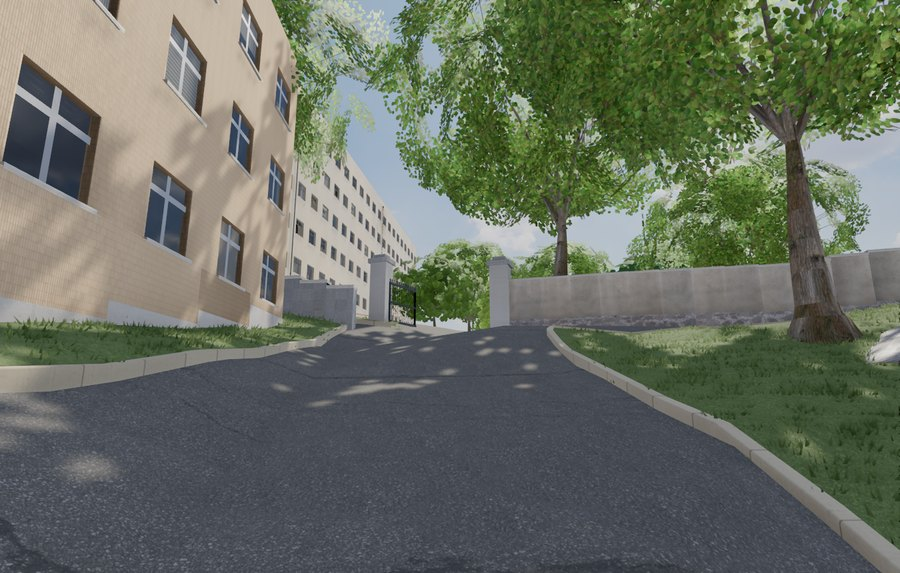
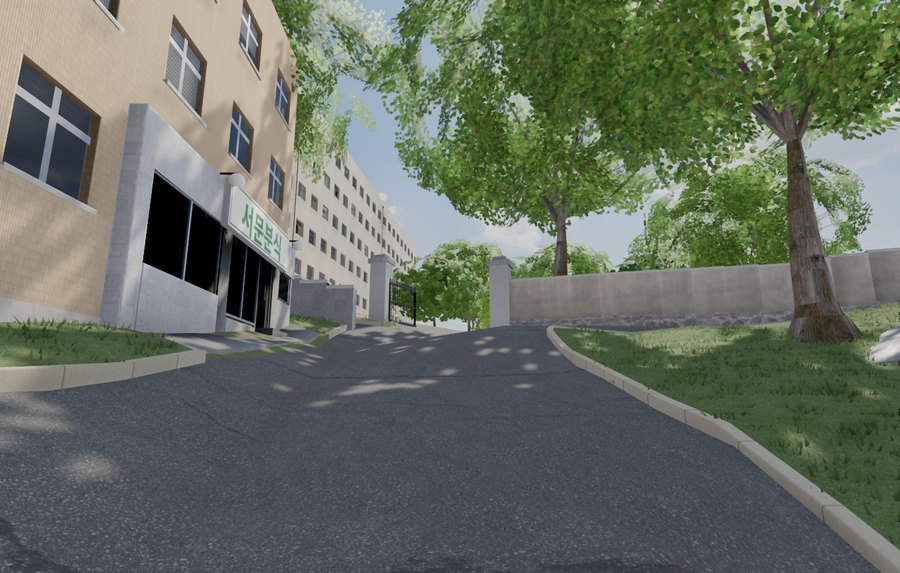
고증 3.22 「서문 앞 가게」: 서문분식을 83번지 1층에 넣은 것과 그 근거
자리 · 간판 색은 동문의 기억(2026-11-21), 앞면은 2011년 로드뷰의 그 자리
가게(다미분식) 꼴. 「남은 한계」는 간판 · 앞면의 1997년 모습이 어림이라는
것으로 고침. 비교 화면 seomun_bunsik 을 새로 찍고 seomun 을 다시 찍음.

Changed region(s): [[0.3111, 0.0, 1.0, 0.4747], [0.0933, 0.178, 0.3733, 0.6527]]

diff --git a/reference/고증/3.22_서문.md b/reference/고증/3.22_서문.md
@@ -4,7 +4,7 @@
 
 과학관 서쪽 길이 남서쪽 모퉁이에서 내려와 서문 안 갈림목을 지나 대운동장 북동쪽으로 이어지는 찻길, 서문, 문 밖 연희로10길 한 토막과 그 둘레의 연희동 집.
 코드는 `tools/seomun.py`, `campus.json` `seomun`, `blender/landmarks.py` `seomun`.
-비교: `docs/screenshots/seomun.jpg`(연희로10길에서 동쪽으로, 2011년 4월 로드뷰 1017248897과 비슷한 자리).
+비교: `docs/screenshots/seomun.jpg`(연희로10길에서 동쪽으로, 2011년 4월 로드뷰 1017248897과 비슷한 자리), `docs/screenshots/seomun_bunsik.jpg`(서문분식, 「서문 앞 가게」).
 
 전의 게임:
 
@@ -174,6 +174,9 @@
 
 서문 앞에 「서문분식」이 있었다는 기억(2026-11-21)으로 그 자리 · 간판 · 건물을 찾았습니다.
 
+- 자리 · 간판 색: 동문(사용자)의 기억, 2026-11-21. 83번지 1층(문 바로 곁, 골목 북쪽 4층 건물), 흰 바탕에 초록 글씨
+- 그 밖의 자료는 아래 표. 1997년의 사진은 찾지 못함
+
 | 자료 | 읽은 것 |
 |---|---|
 | 네이버 블로그 회고(2025년 3월) | 학부 때 다니다 없어진 식당의 예로 「서문 쪽에 서문분식, 정문 앞의 부산 식당」. 같은 글에 2003 ~ 2004년 이야기. 자리 · 모습 · 연도는 없음 |
@@ -187,14 +190,19 @@
   - 남쪽 문 곁(86번지): 「연세반점 중국요리」, 낮은 벽돌집 앞면 가득 빨간 바탕 흰 글씨 간판
   - 그 서쪽(82번지 1층): 「味(미)加(가)분식」, 주황 바탕 흰 글씨 간판(방패 무늬에 「2000」), 흰 칠 벽돌 벽 · 아치 문, 2층은 유리를 두른 방
   - 북쪽(83번지 1층): 「다미분식」(노랑 바탕 초록 글씨) · 「맘마맘」
+    - 다미분식의 앞면(1017248898): 밝은 화강석 기둥 · 띠, 바닥에서 띠까지 유리 두 칸(동쪽 칸에 유리문, 간판은 그 위), 동쪽 화강석 벽에 쇠살 작은 창, 골목이 서쪽으로 내려가 서쪽 칸은 화강석 턱 위. 차양은 없음
 - 미가분식: 2000년에 연 가게. 서문분식이 이름을 바꾼 것인지는 모름(회고의 때에 둘이 따로 있었다면 다른 가게)
 - 찾아도 없던 곳
   - 네이버 블로그 · 카페 · 지식iN · 뉴스, 다음 검색
   - 연세춘추 온라인(1999년부터), 네이버 뉴스 라이브러리(1920 ~ 1999년)
   - 나무위키 연희동 「서문 식당」, 카카오맵 장소 검색
   - 재상봉 문집 2019 · 2021 ~ 2026년의 글자
-- 게임: 넣지 않음. 서문분식이 있었다는 것(2000년대 초 회고)만 확인하고, 1997년의 자리 · 간판 · 건물은 찾지 못함
-  - 자리 후보: 2010년에도 분식집이던 문 앞 두 곳, 82번지 1층(2000년부터 미가분식, 그 전은 모름) · 83번지 1층(다미분식)
+- 게임(`tools/seomun.py` `SHOP`, `blender/landmarks.py` `seomun_shop`, 간판 `tools/make_textures.py` `sign_seomun`)
+  - 자리: 83번지 골목 쪽 면의 동쪽 끝, 문 곁 모서리에서 8.7 m. 집이 골목의 가장 낮은 서쪽 모서리에 서 있어 문 곁에서는 그 2층이 골목과 만나는 층이라, 앞면을 그 층에 붙임
+  - 앞면: 2010 ~ 2011년 그 자리 가게(다미분식)의 꼴. 밝은 화강석 기둥 셋 · 띠, 유리문이 있는 유리 칸 · 화강석 턱 위 유리 칸, 동쪽 화강석 벽의 쇠살 작은 창
+  - 간판: 흰 바탕 초록 글씨 「서문분식」(4.4 × 1.1 m), 문 칸 위 띠에. 양끝에 흰 공 등
+  - 앞 보도: 면에서 1.3 m, 골목을 따라 내려가는 땅 위 0.1 m에 깐 화강석, 문 앞은 가게 바닥 높이의 단. 땅 지도에는 맨땅으로 칠해 잔디가 올라오지 않음(심기가 끝난 뒤 칠하는 `seomun.paint`)
+  - 1997년의 간판 · 앞면 사진은 없음: 2011년 로드뷰의 꼴과 기억의 색으로 어림(「남은 한계」)
 
 ## 남은 한계
 
@@ -205,5 +213,5 @@
 | 골목 집의 1997년 층수 · 모양 | OSM 외곽선(1997년 지붕과 1 m 안), 2 ~ 4층 동네 집 (3.22) | 83번지 4층(2010 · 2011년 로드뷰)과 86번지 모임지붕(1997년 사진)만. 나머지 층수 · 벽 · 지붕은 어림 | — |
 | 갈림목 남쪽 작은 건물 | 한 층 흰 건물 (3.22) | 1997년 스캔의 지붕 5.5 × 9 m · 높이뿐. 무엇인지(펌프실 · 창고 · 수위실) 모름 | — |
 | 남남동 찻길의 노면 · 길가 | 차도 6.5 m 아스팔트, 노면 표시 · 가로등 없음 (3.22) | 밝은 노면이라 선을 읽지 못함. 밝은 띠가 4.3 ~ 9 m라 차도와 동쪽 맨땅의 경계가 흐림. 길가 나무는 서쪽 숲 가장자리만(1990년 지도의 나무 줄 둘) | — |
-| 서문분식 | 넣지 않음 (3.22 「서문 앞 가게」) | 2000년대 초 회고에 이름만 있음. 1997년의 자리 · 간판 · 건물 사진을 찾지 못함. 2010 ~ 2011년 로드뷰의 문 앞 분식집은 82번지 1층 미가분식(2000년부터) · 83번지 1층 다미분식뿐 | — |
+| 서문분식 | 83번지 1층 골목 쪽, 흰 바탕 초록 글씨 간판, 화강석 기둥 · 유리 두 칸 (3.22 「서문 앞 가게」) | 간판 · 앞면의 1997년 모습은 어림(사진 없음). 자리 · 간판 색은 동문의 기억, 앞면의 꼴은 2011년 로드뷰의 그 자리 가게(다미분식). 문서 자료는 2000년대 초 회고에 이름만 | — |
 | 과학관 남쪽 공터의 쌓은 자재 밑 땅 | 공터 높이를 이음(46.4 ~ 47.9 m). 그 둘레와 남서 날개 남쪽 발치는 1997년 7월 · 1996년 겨울 스캔대로(3.22 「과학관 남쪽 공터의 서쪽 반」) | 자재 자리(x −305 ~ −264, y −48 ~ −65)는 1996년 12월 흙더미(49.0 ~ 49.7 m), 1997년 7월 · 10월 쌓은 자재(위 47.8 ~ 48.4 m), 1998년 10월 구덩이라 1997년 땅을 어느 장으로도 못 잼. 남서 날개 남쪽 면에서 8 m 안도 두 해 모두 못 봄(게임은 면 곁이 49.4 ~ 49.6 m로 과학관 바닥보다 높음). 동쪽 코스(27)는 이곳에 닿지 않아, 1997년의 지상 사진이 있어야 정해짐 | — |
